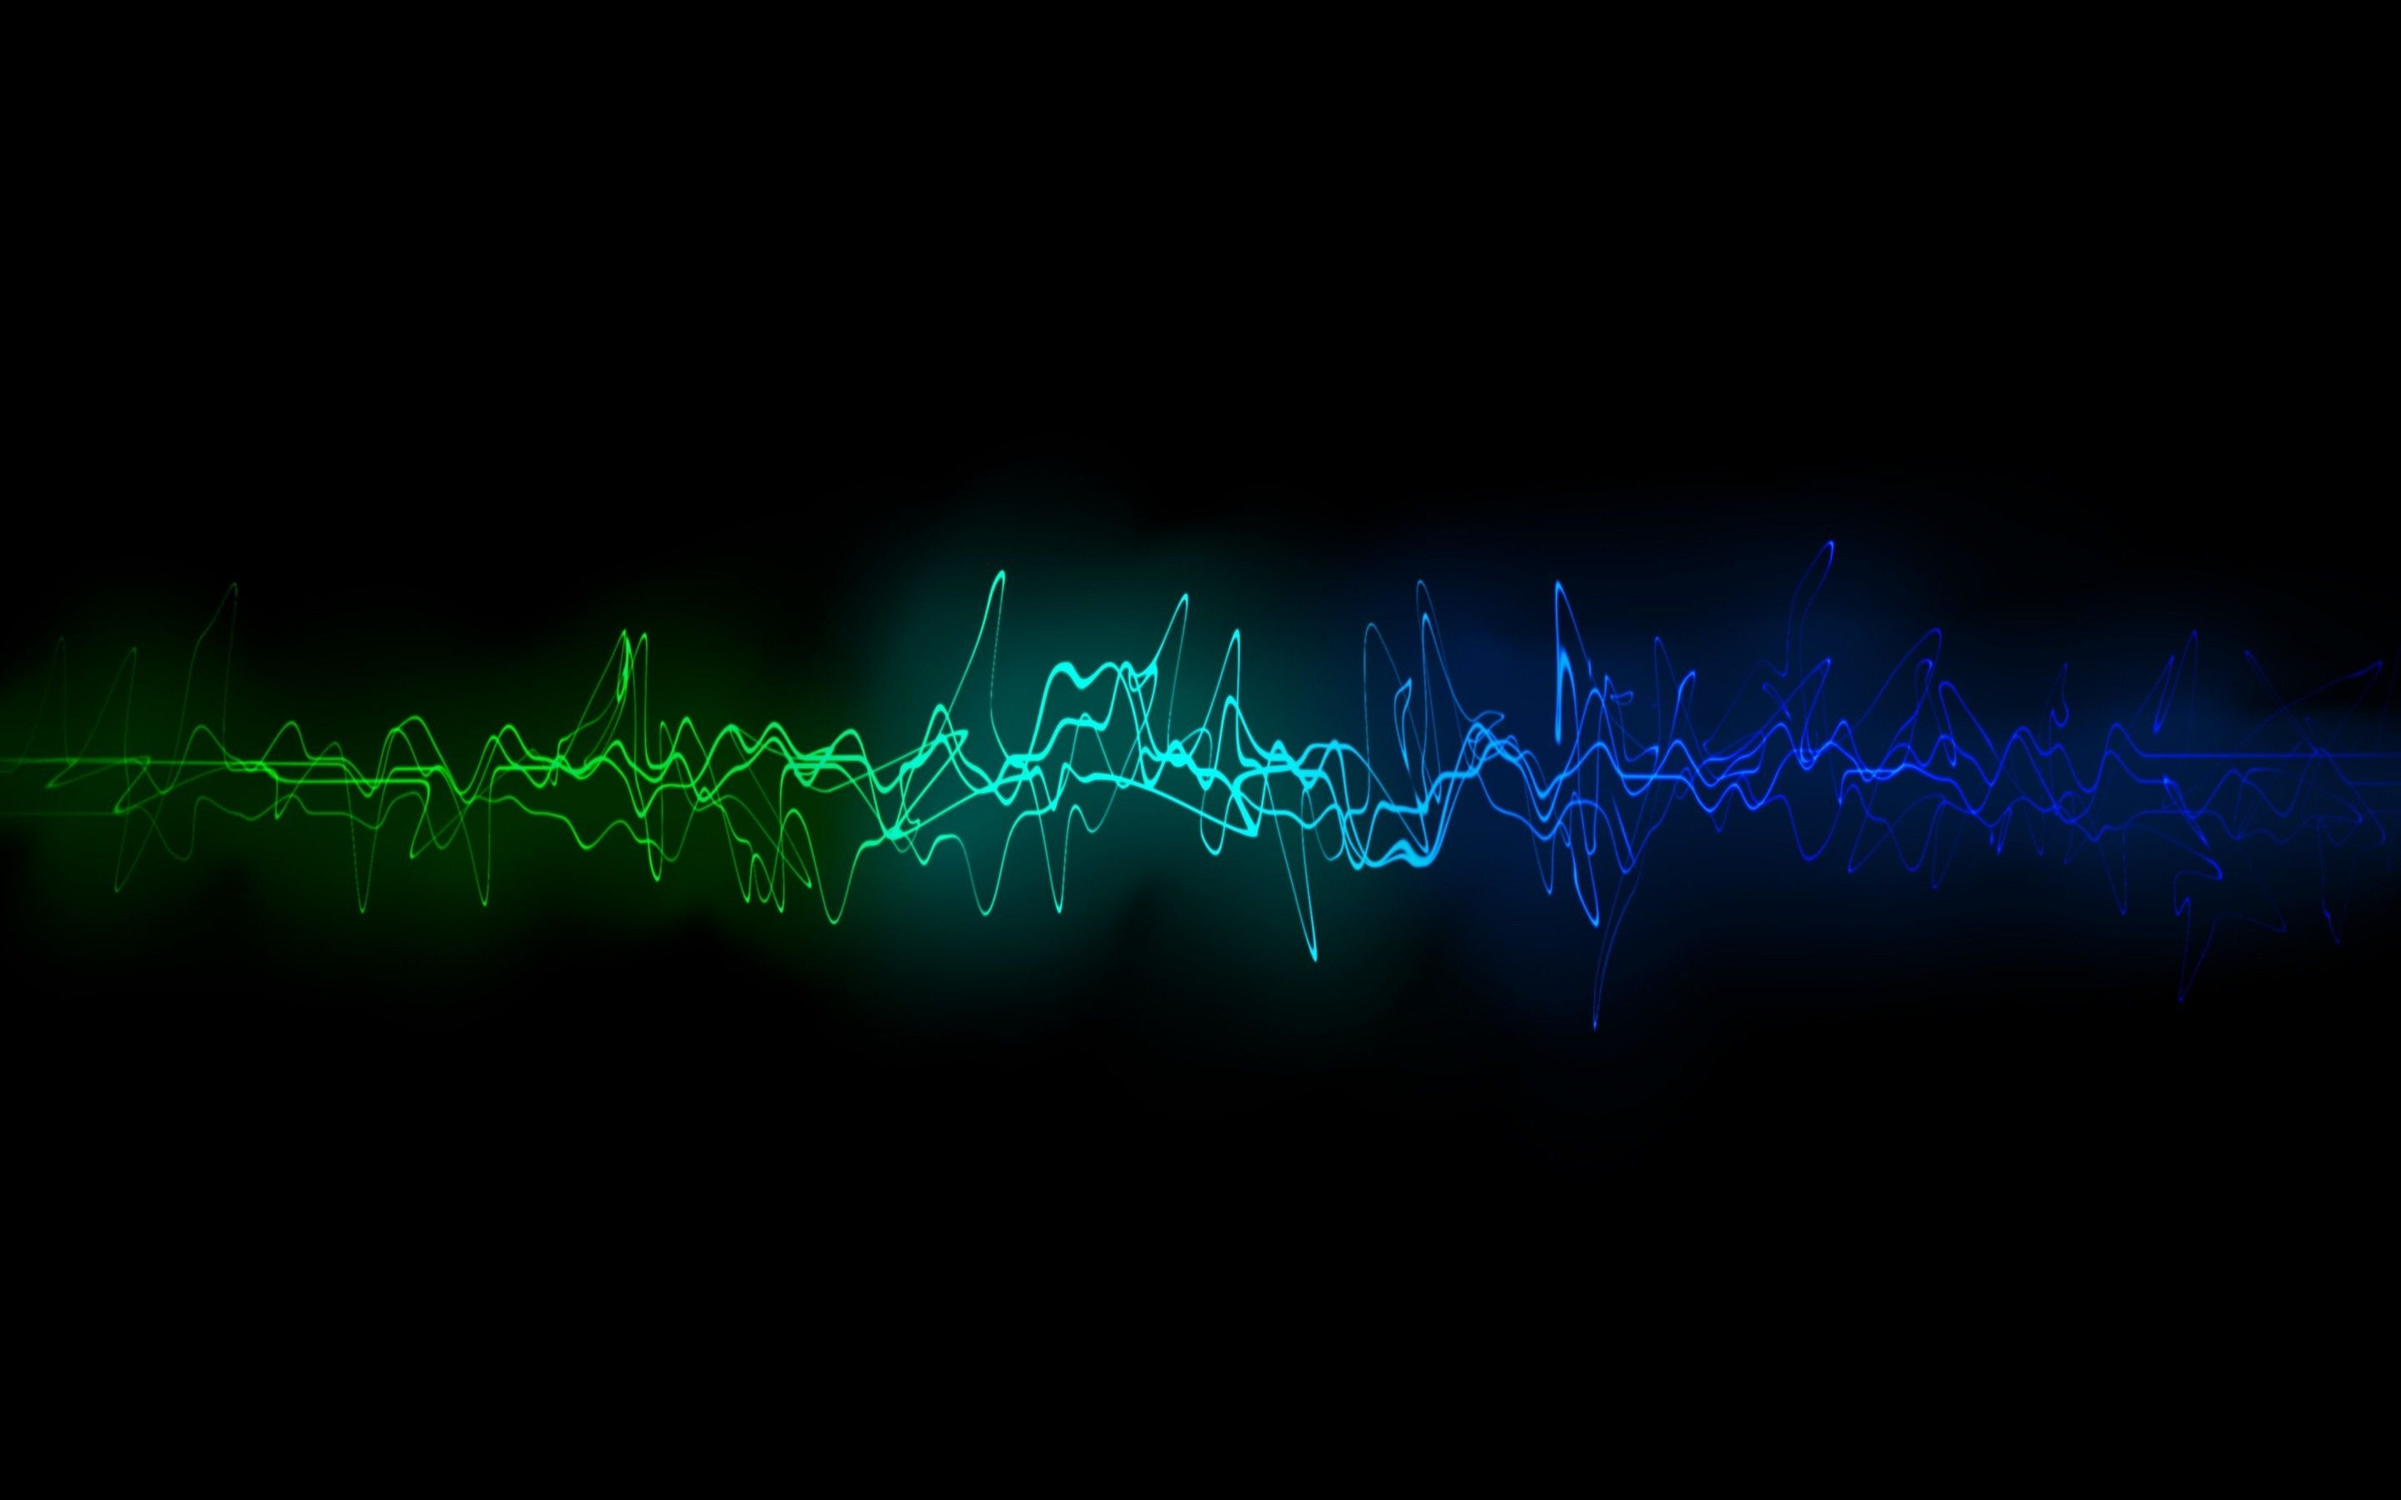
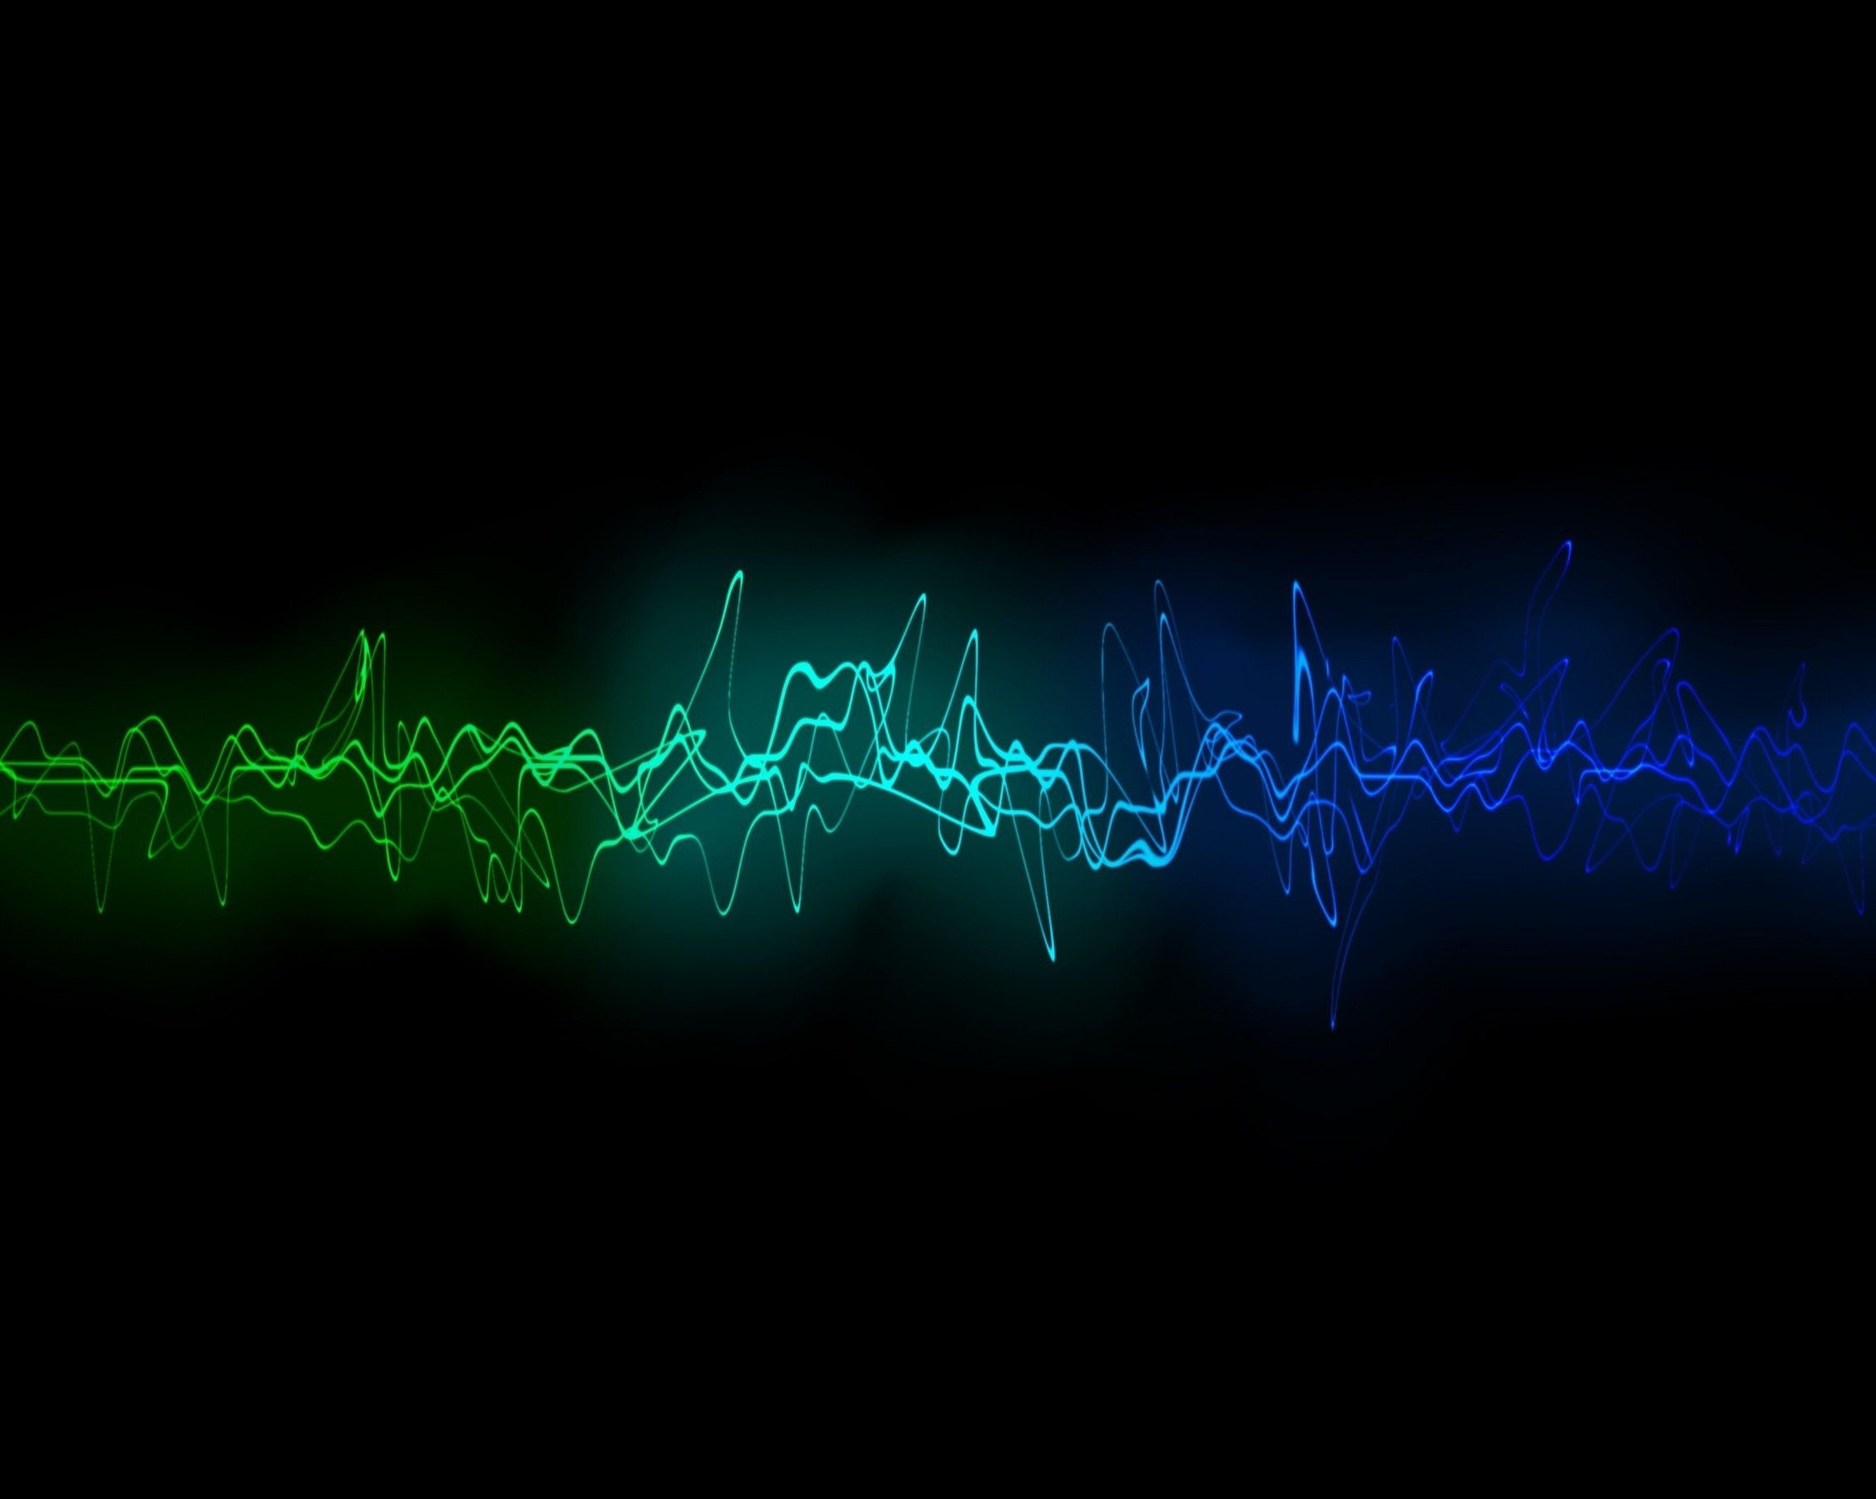
final touches and error clean up

Changed region(s): [[0.0, 0.3424, 1.0, 0.6848], [0.7463, 0.3735, 0.7774, 0.4047]]

diff --git a/apex-legends-case-study.html b/apex-legends-case-study.html
@@ -107,6 +107,7 @@
                         <h3 class="text-uppercase">Apex Legends Case Study</h3>
                         <strong>A look into the very succesful UX of Respawn's Apex Legends. This case study includes insights into the "Ping System", Movement and Feedback.</strong>
                       </p>
+                      <p> <strong> Objective </strong>
                     </div>
                     <div class="col-md-6">
                         <p>In the rapidly moving genre of Battle Royale games, innovation and new releases must distinguish themselves from the rest of the titles in the market. They must provide
@@ -120,7 +121,7 @@
 
                     <div class="col-md-12">
                         <p> <img  src="assets/img/apex-banner-image-1.png" alt="Title Image" class="center"/> </p>
-                        <p> <strong> The Poblem </strong> </p>
+                        <p> <strong> The Problem </strong> </p>
                         <p>  Apex needed to “come out of the gate swinging” in order to impress the community with the base of the game, this would allow them to take some market share from other titles and then hopefully be able to retain the player base with good post release development. Releasing unannounced, free, did some of the work here for them.
                           Respawn needed a rewarding game structure to ensure players felt better playing Apex Legends than they did, the other titles in the genre. </p>
                         <p>  The first issue comes in the form of communication, as Apex is a class-based game allowing players to choose from a range of characters with special abilities that can work together, it is primarily a team game. This means players will have to communicate with other players on their three-man team.
@@ -145,7 +146,7 @@
                         <h3>  Specific Features Developed </h3>
                         <strong>Look into three specific areas: Ping system, Movement, Feedback </strong>
 
-                        <p> <h4>Ping System</h4> </p>
+                        <p> <strong> Ping System </strong> </p>
                         <p> <img  src="assets/img/apex-ping-system.png" alt="Ping System" class="center"/> </p>
                         <p>
                          Due to Apex’s format as a team-based game, communication is vital. A problem arises in that most players will not use voice chat when randomly paired with a team they don’t know.
@@ -154,7 +155,7 @@
                          Respawn has implemented this in a way which makes it easy to use and in fact, in some situations, easier than using voice communication. This being said it cannot completely replace voice which is a good thing as it allows those teams working together properly to have some communication edge over teams thrown together randomly. No other title in the genre has been able to recreate this to the standard that respawn has achieved.
                          </p>
 
-                         <p> <h4> Movement</h4> </p>
+                         <p> <strong> Movement</strong> </p>
                          <p> <img  src="assets/img/Apex Legends Slide Kill.gif" alt="Movement" class="center"/> </p>
                          <p>
                           Using Titanfall 2’s “Source” game engine allows respawn to create a seamless, fast paced gameplay that empowers the player to move around obstacles seamlessly
@@ -162,14 +163,14 @@
                           their character is a superhero of sorts. This ties directly in with the player feedback goals that respawn set out.
                           </p>
 
-                          <p> <h4>Feedback</h4> </p>
-                          <p> <img  src="assets/img/Apex Armor BReak.gif" alt="Feedback" class="center"/> </p>
+                          <p> <strong>Feedback</strong> </p>
+                          <p> <img  src="assets/img/Apex Armor Break.gif" alt="Feedback" class="center"/> </p>
                           <p>
                            Feedback in games is especially important. It allows for positive reinforcement of certain actions and can give a negative response for other actions. The action of breaking another player’s armour causes a large cracking glass sound. This gives the player information and also a rush of dopamine. Respawn continues across the rest of the game with positive audio for healing item use and for kills. When the player gets a kill, the game floods the screen with an obvious visual and a kill counter. Information can be gained when a player kills you and their statistics can be viewed. This creates a very balanced gameplay and keeps players coming back for more and feeling good about their own skill.
                            </p>
 
 
-                           <p> <h4>Outcomes</h4> </p>
+                           <p> <strong>Outcomes</strong> </p>
 
                            <p>
                              This development approach proved to be very successful with Apex Legends gaining a big market share of users on release and being able to maintain these numbers, by providing the unique features outlined above, Respawn were able to keep the momentum and release more and more features to cement their place in the genre. This rapid development and free release paired with “Battle Pass” and “Loot Box” in game purchases has allowed them to continue to provide a free base game and still bring in enough funding to continue development. User feedback has been largely positive as a result of these features and Apex continues to be a market leader, even prompting other, previously more popular titles to adopt (or at least attempt to adopt) some of the popular features of the game.

diff --git a/snapchat-case-study.html b/snapchat-case-study.html
@@ -111,11 +111,11 @@
                   <div class="col-md-12">
 
                     <h3 class="text-uppercase">Snapchat Case Study</h3>
-                    <span>This is a case study for the popular photo messaging app, Snapchat. The case study focuses on Snapchat's unconventional approach to UX and theor attempts to block older generations from the app.</span>
+                    <span>This is a case study for the popular photo messaging app, Snapchat. The case study focuses on Snapchat's unconventional approach to UX and their attempts to block older generations from the app.</span>
                   </p>
                   </div>
                     <div class="col-md-12">
-                        <p>Snapchat and Facebook’s own Instagram have been the apps that most of these Facebook leavers have turned to. Snapchat took a very different approach to UX design than most companies do. They have made their app almost deliberately hard to navigate and this plays right into the psychological motivations of young users. “It is their baffling UX that maintains Snapchat’s relevance to their key demographic: teens and millennials. This target audience is as powerful as it is fickle, and capturing it means keeping Snapchat cool. And nothing kills cool faster than adults” (McGowan 2017). Snapchat appeals to teenagers and young adults and simultaneously solves the parent problem. McGowan (2017) does note that poor UX catches up. This has been observed from their “flatlining” user figures. However, Willens (2018) notes that this may not be a bad thing for snapchat. Ethical or not, their new plan is to ensure each user’s time on the app is maximised.</p>
+                        <p>Snapchat and Facebook’s own Instagram have been the apps that most of these Facebook leavers have turned to. Snapchat took a very different approach to UX design than most companies do. They have made their app almost deliberately hard to navigate and this plays right into the psychological motivations of young users. “It is their baffling UX that maintains Snapchat’s relevance to their key demographic: teens and millennials. This target audience is as powerful as it is fickle, and capturing it means keeping Snapchat cool. And nothing kills cool faster than adults”. Snapchat appeals to teenagers and young adults and simultaneously solves the parent problem. Poor UX catches up. This has been observed from their “flatlining” user figures. However, this may not be a bad thing for snapchat. Ethical or not, their new plan is to ensure each user’s time on the app is maximised.</p>
                         <p> <img  src="assets/img/snap-chat-ui-echaparro.jpg" alt="Snapchat" class="center"/> </p>
                         <p> <strong> The Problem </strong> </p>
                         <p>Snapchat is specifically targeted to younger users (around the same age range as my Vibes app was targeted). This presents a problem as the current shift in some social media platforms, namely Facebook, has been an influx of older generations. The real issue for these platforms comes in the form of parents.

diff --git a/final-year-project.html b/final-year-project.html
@@ -109,10 +109,13 @@
                     <p>
                     <div class="col-md-12">
                         <h3 class="text-uppercase">Vibes - Final Year PRoject</h3>
-                        <span>Analysis of my final year project for uni. I developed a system that would allow teens an young adults to have a place to share events and follow theor favourite artists and promoters. I focused a lot on UX during this project both during development and research. This project shed a lot of light on the field of UX for me and helped me to kickstart my love for the field.</span>
+                        <p><strong> Aims </strong></p>
+                        <span>Analysis of my final year project for university. I developed a system that would allow teens an young adults to have a place to share events and follow theor favourite artists and promoters. I focused a lot on UX during this project both during development and research. This project shed a lot of light on the field of UX for me and ignited my passion for the field of UX for me.</span>
                       </p>
                     </div>
                     <div class="col-md-12">
+                      <p><strong> Objective </strong></p>
+                      <p>
                         With the sharp decline of Facebook use among the younger generations (looking specifically at late teens, 14-19), There emerges a gap in the market when it comes to events organising platforms. This project sought to create a platform that merges events organisation and social media that would be preferable to users in this age range.
                       </p>
                     </div>
@@ -159,7 +162,7 @@
                         <p><strong> The Solution </strong></p>
                         <p> By creating a clean, visually pleasing app that allows teens to not only plan events, but also interact almost directly with their favourite producers and promoters, vibes is able to fill the gap left by the Facebook events service in a way that is unlikely to be flooded by older generations. The key when designing for teens and young people is to ensure they have a safe space away from “adults”. Creating an app solely for this purpose kills two birds with one stone as it provides no real reason for the older generations to sign up. </p>
                         <form class="form-inline">
-                          <button type="submit" class="btn btn-medium btn-dark-solid text-uppercase" formaction="https://drive.google.com/file/d/1XoNJa5eiwDRqiynNIyuExTj1FdOCcaL7/view?usp=sharing">View Adobe XD Prototype</button>
+                          <button type="submit" class="btn btn-medium btn-dark-solid text-uppercase" formaction="https://drive.google.com/file/d/1XoNJa5eiwDRqiynNIyuExTj1FdOCcaL7/view?usp=sharing">View Full Final Year Project</button>
                         </form>
                       </br>
                     </div>

diff --git a/index.html b/index.html
@@ -118,6 +118,8 @@
         </br></br>
             <!--feature-->
             <div class="text-center">
+                <p> <h2 class="text-uppercase"> Portfolio </h2> </p></br>
+
                 <ul class="portfolio-filter">
                     <li class="active"><a href="#" data-filter="*"> All</a>
                     </li>
@@ -125,12 +127,13 @@
                     </li>
                     <li><a href="#" data-filter=".cat2">Case Studies</a>
                     </li>
+
                 </ul>
             </div>
             <div class="portfolio col-2 ">
                 <div class="portfolio-item cat1">
                     <div class="thumb">
-                        <img src="assets/img/vibes-shot.png" alt="">
+                        <img src="assets/img/sound-wave-cropped.png" alt="">
                         <div class="portfolio-hover">
                             <div class="action-btn">
                                 <a href="final-year-project.html"> <i class="icon-basic_magnifier"></i>

diff --git a/the-winterbourne-project.html b/the-winterbourne-project.html
@@ -111,8 +111,10 @@
                   <p>
                   <div class="col-md-12">
                     <h3 class="text-uppercase">"The Winterbourne" Project</h3>
-                    <span>This was a project undertaken for the fantastic Winterbourne in WInterbourne Bassett, Wiltshire. The focus here was simplicity and keepin gthe site as clean and easy to use as possible.</span>
+
+                    <span>This is a project undertaken for the fantastic Winterbourne in Winterbourne Bassett, Wiltshire. The focus here is simplicity and keeping the site as clean and easy to use as possible.</span>
                   </p>
+                  <p> At present this site unfinished and still in development. More info will be posted here once it is completed.</p>
                   </div>
 
                   <div class="col-md-12">

diff --git a/front-end-project.html b/front-end-project.html
@@ -111,7 +111,7 @@
                     <div class="col-md-12">
                       <p>
                         <h3 class="text-uppercase">Front End Project</h3>
-                        <span>An analysis of an HTML, CSS and Javascript project I did. The project is a guide to the ski resort Val d'Isere. While not UX focused, this analysis shows great use of HTML, CSS and Javascript. It also showcases brilliant version control through GIT</span>
+                        <span>An analysis of an HTML, CSS and Javascript project. The project is a guide to the ski resort Val d'Isere. This analysis shows use of HTML, CSS and Javascript. It also showcases version control through GIT</span>
                       </p>
                     </div>
 

diff --git a/about-me.html b/about-me.html
@@ -168,7 +168,7 @@
                                 </div>
                                 <div class="desc">
                                     I spent a significant portion of my degree working on my Final Year Project where I designed using XD and
-                                    focused my research on UX and how user psychology affected their behaviour while using systems.
+                                    focused my research on UX and how user psychology affected behaviour while using systems.
                                 </div>
                             </div>
                         </div>
